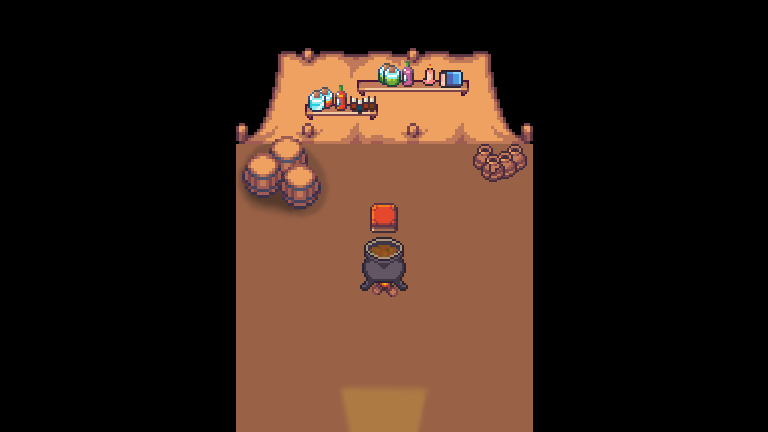
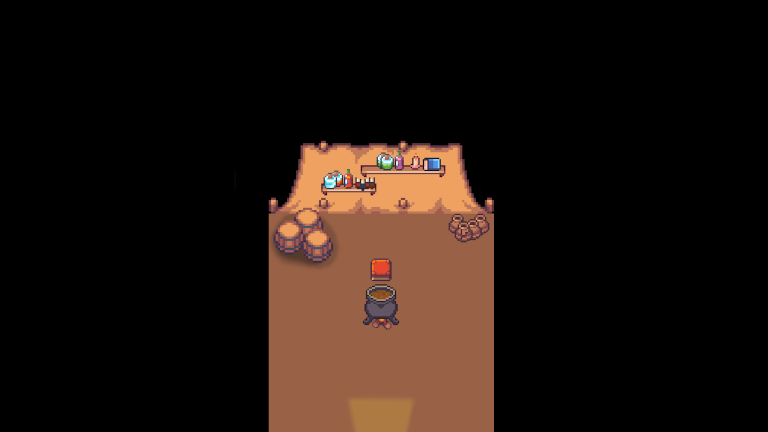
(+) teleport for tente

Changed region(s): [[0.2812, 0.0903, 0.7188, 1.0], [0.5312, 0.9329, 0.5625, 1.0]]

diff --git a/src/gameplay/teleport_player.c b/src/gameplay/teleport_player.c
@@ -22,6 +22,21 @@ static void teleport_base(rpg_t *rpg)
     }
 }
 
+static void teleport_tente(rpg_t *rpg)
+{
+    if (rpg->screen[SC_MAIN_MAP].active) {
+        rpg->begin.view.center = rpg->screen[SC_TENTE].view_pos;
+        toggle_spritesheet_scene(rpg, false, SC_MAIN_MAP);
+        toggle_spritesheet_scene(rpg, true, SC_TENTE);
+    } else {
+        rpg->spritesheet[rpg->player_stats.skin].pos =
+        rpg->screen[SC_MAIN_MAP].view_pos;
+        rpg->begin.view.center = rpg->screen[SC_MAIN_MAP].view_pos;
+        toggle_spritesheet_scene(rpg, false, SC_TENTE);
+        toggle_spritesheet_scene(rpg, true, SC_MAIN_MAP);
+    }
+}
+
 static void teleport_jail(rpg_t *rpg)
 {
     if (rpg->screen[SC_MAIN_MAP].active) {
@@ -72,6 +87,11 @@ void teleport_player_scene(rpg_t *rpg, sfImage *image, sfVector2f pos_player)
             play_sound(rpg->sound.sound_list[SOUND_DOOR].sound, rpg->sound.volume);
             teleport_jail(rpg);
             break;
+        case B_TENTE:
+            play_sound(rpg->sound.sound_list[SOUND_DOOR].sound,
+            rpg->sound.volume);
+            teleport_tente(rpg);
+            break;
         case B_GROTTE:
             play_sound(rpg->sound.sound_list[SOUND_DOOR].sound, rpg->sound.volume);
             teleport_grotte(rpg);
@@ -79,6 +99,7 @@ void teleport_player_scene(rpg_t *rpg, sfImage *image, sfVector2f pos_player)
         case B_CEMETERY:
             play_sound(rpg->sound.sound_list[SOUND_DOOR].sound, rpg->sound.volume);
             teleport_cemetery(rpg);
+            break;
         default:
             break;
     }

diff --git a/src/init/init_screens.c b/src/init/init_screens.c
@@ -13,8 +13,7 @@ const int screen_custom[] = {SP_BACKGROUND_SC_MENU, SP_PLAYER_BLUE,
 SP_PLAYER_BROWN, SP_PLAYER_CYAN, SP_PLAYER_GREEN, SP_PLAYER_GREY,
 SP_PLAYER_PINK, SP_PLAYER_RED, SP_PLAYER_YELLOW, SP_PLAY, SP_CURSOR, -1};
 const int screen_game[] = {SP_BACKGROUND_SC_MAIN_MAP, SELECTED_PLAYER, -1};
-const int screen_base[] = {SP_BACKGROUND_SC_BASE, SELECTED_PLAYER, SP_CURSOR,  \
-SP_NPC_SOLDIER, -1};
+const int screen_base[] = {SP_BACKGROUND_SC_BASE, SELECTED_PLAYER, SP_CURSOR, -1};
 const int screen_inventory[] = {SP_INVENTORY, SP_CURSOR, -1};
 const int screen_jail[] = {SP_BACKGROUND_JAIL, SELECTED_PLAYER, SP_CURSOR, -1};
 const int screen_how_play[] = {SP_BACKGROUND_HOW_PLAY, SP_BACK, SP_CURSOR, -1};
@@ -33,6 +32,7 @@ SP_LIFE_BAR_BOSS, SP_CURSOR, -1};
 const int screen_cemetery[] = {SP_BACKGROUND_CEMETERY, SELECTED_PLAYER,
 SP_BOSS_EXECUTIONER, SP_LIFE_BAR_BOX, SP_LIFE_BAR, SP_LIFE_BAR_BOX_BOSS,
 SP_LIFE_BAR_BOSS, -1};
+const int screen_tente[] = {SP_BACKGROUND_TENTE, SELECTED_PLAYER, SP_NPC_SOLDIER, -1};
 
 void init_screens(rpg_t *rpg)
 {
@@ -59,6 +59,10 @@ void init_screens(rpg_t *rpg)
     .view_pos = {WIDTH / 2, HEIGHT / 2}, .view_zoom = 1, screen_option_menu};
     rpg->screen[SC_CEMETERY] = (screen_t){.active = false,
     .view_pos = {384, 1581}, .view_zoom = 0.4, screen_cemetery};
+
+    rpg->screen[SC_TENTE] = (screen_t){.active = false,
+    .view_pos = {SPAWN_X - 760, SPAWN_Y - 770}, .view_zoom = 0.32, screen_tente};
+
     for (int i = 0; i < NBR_SC; ++i)
         rpg->screen[i].clock = sfClock_create();
 }

diff --git a/src/spritesheets/init_spritesheets_rooms.c b/src/spritesheets/init_spritesheets_rooms.c
@@ -11,9 +11,8 @@ void init_spritesheets_rooms(spritesheet_t *spritesheet)
 {
     set_one_sprite("assets/img/house/background_base.png",
     &spritesheet[SP_BACKGROUND_SC_BASE],
-    (init_sprite_t){{577 + 700 / 2, 671 + 394 / 2}, {1, 1},
-    {0, 0, 700, 394}, .clickable = false, .active = false,
-    .change_sprite_on_mouse = false});
+    (init_sprite_t){{577 + 700 / 2, 671 + 394 / 2}, {1, 1}, {0, 0, 700, 394},
+    .clickable = false, .active = false, .change_sprite_on_mouse = false});
     set_one_sprite("assets/img/house/background_jail.png",
     &spritesheet[SP_BACKGROUND_JAIL],
     (init_sprite_t){{WIDTH / 2, HEIGHT / 2}, {1, 1}, {0, 0, 640, 360},
@@ -22,9 +21,12 @@ void init_spritesheets_rooms(spritesheet_t *spritesheet)
     &spritesheet[SP_BACKGROUND_GROTTE],
     (init_sprite_t){{444, 1196}, {1, 1}, {0, 0, 768, 432},
     .clickable = false, .active = false, .change_sprite_on_mouse = false});
-
     set_one_sprite("assets/img/donjons/background_cemetery.png",
     &spritesheet[SP_BACKGROUND_CEMETERY],
     (init_sprite_t){{384, 1581}, {1, 1}, {0, 0, 768, 432},
+    .clickable = false, .active = false, .change_sprite_on_mouse = false});
+    set_one_sprite("assets/img/house/Background_tipi.png",
+    &spritesheet[SP_BACKGROUND_TENTE],
+    (init_sprite_t){{190, 417 - 190}, {1, 1}, {0, 0, 768, 432},
     .clickable = false, .active = false, .change_sprite_on_mouse = false});
 }

diff --git a/include/rpg.h b/include/rpg.h
@@ -13,7 +13,7 @@
     #include "struct.h"
     #define RADIAN(x) x * 3.14159265359 / 180
     #define FUNCTIONS_BUTTONS {nothing, nothing, nothing, nothing, nothing, \
-    nothing, nothing, nothing, how_play, quest_soldiers, nothing, skin_blue, \
+    nothing, nothing, nothing, nothing, how_play, quest_soldiers, nothing, skin_blue, \
     skin_brown, skin_cyan, skin_green, skin_grey, skin_pink, skin_red, \
     skin_yellow, nothing, nothing, nothing, nothing, nothing, launch_game, quit_game, \
     display_custom_skins, back_button, button_next_grotte, nothing, \
@@ -25,7 +25,7 @@
     nothing, nothing, nothing, nothing, nothing, nothing, nothing, nothing}
     #define SPAWN_X WIDTH / 2
     #define SPAWN_Y WIDTH / 2 + 80
-    #define SPEED_PLAYER 1.5
+    #define SPEED_PLAYER 4
 enum size_window {
     WIDTH = 1920,
     HEIGHT = 1080
@@ -38,6 +38,7 @@ enum sprites {
     SP_BACKGROUND_JAIL,
     SP_BACKGROUND_GROTTE,
     SP_BACKGROUND_CEMETERY,
+    SP_BACKGROUND_TENTE,
     SP_BACKGROUND_HOW_PLAY,
     SP_BACKGROUND_VICRORY_GROTTE,
     SP_MONKEY,
@@ -104,6 +105,7 @@ enum screens {
     SC_INVENTORY,
     SC_PAUSE,
     SC_OPTION,
+    SC_TENTE,
     NBR_SC
 };
 

diff --git a/src/spritesheets/init_spritesheets_npc.c b/src/spritesheets/init_spritesheets_npc.c
@@ -10,6 +10,6 @@
 void init_spritesheets_npc(spritesheet_t *spritesheet)
 {
     set_one_sprite("assets/img/skins/npc/soldiers.png",
-    &spritesheet[SP_NPC_SOLDIER], (init_sprite_t){{835, 860},
+    &spritesheet[SP_NPC_SOLDIER], (init_sprite_t){{100, 417 - 130},
     {1, 1}, {0, 0, 34, 198 / 3}, true, false, .change_sprite_on_mouse = true});
 }
